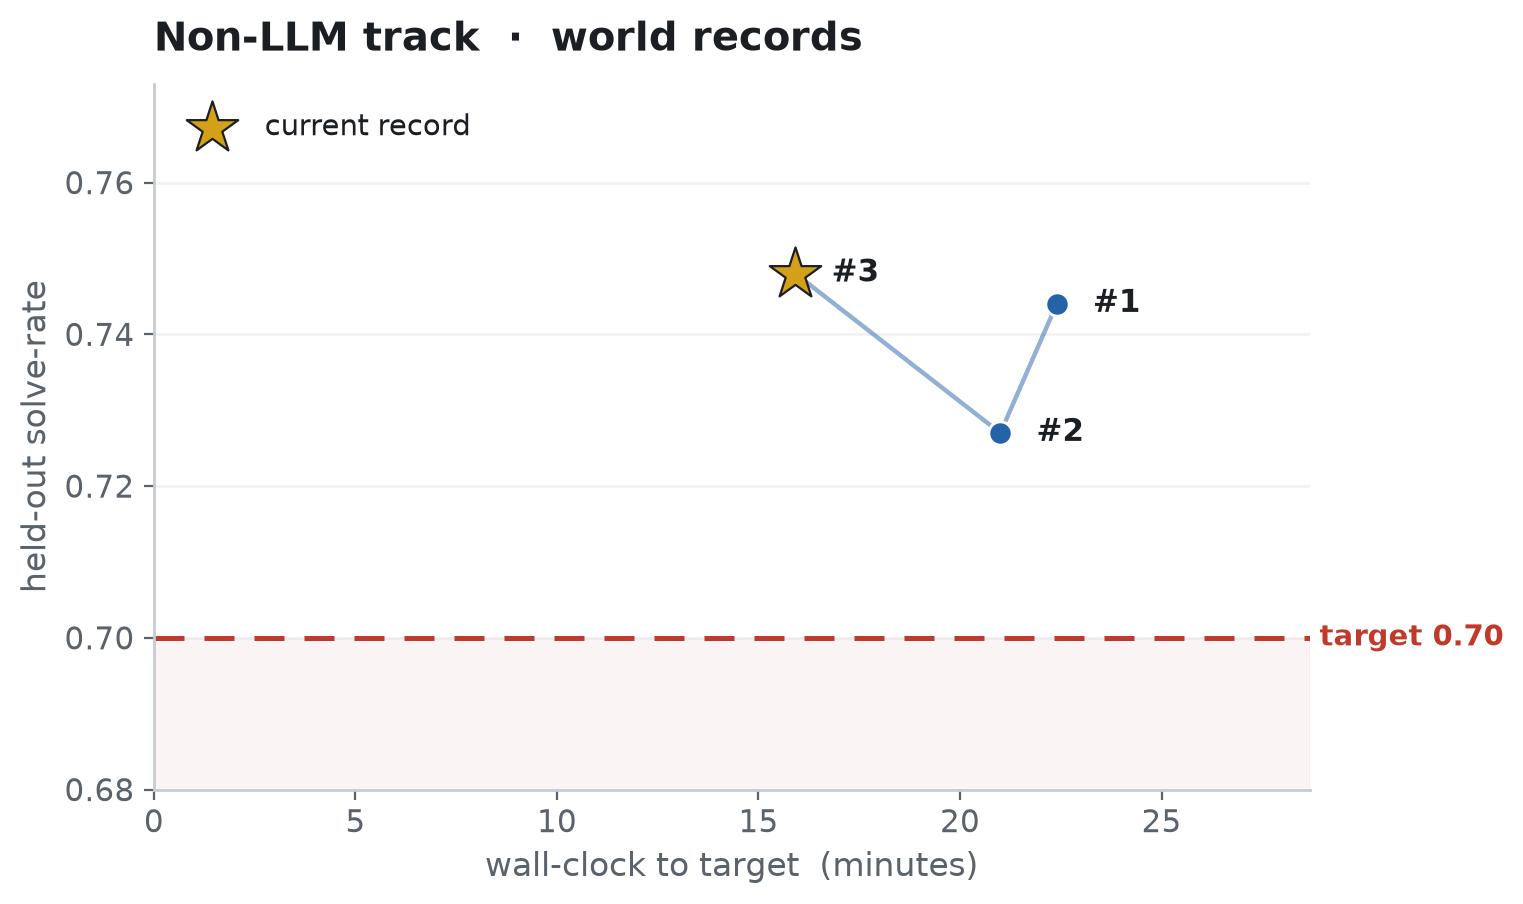
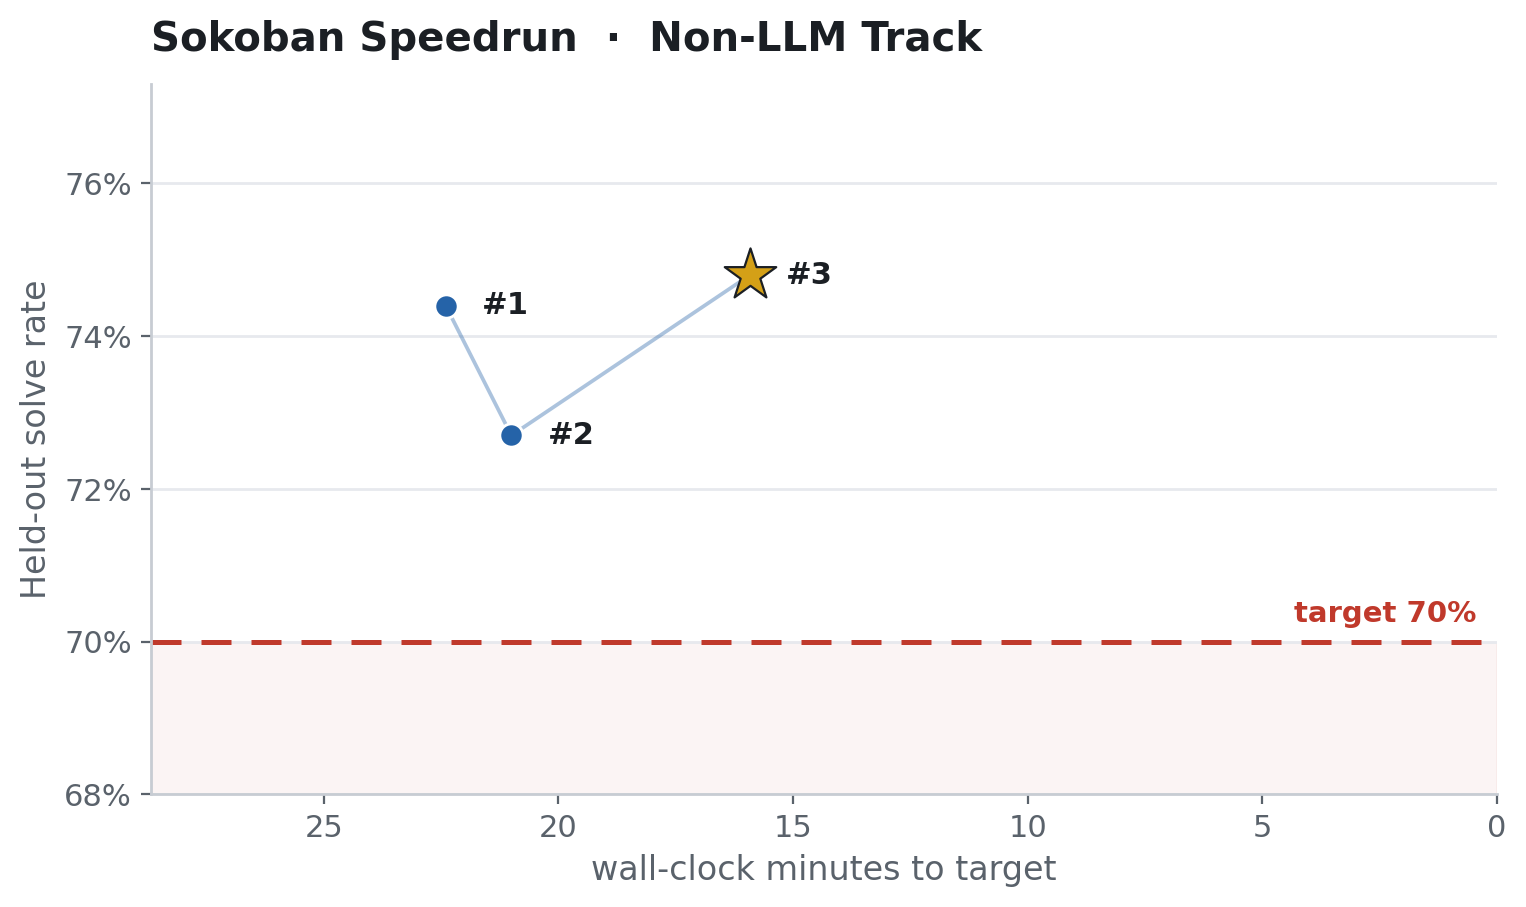
Polish leaderboard plots

diff --git a/make_record_report.py b/make_record_report.py
@@ -527,8 +527,8 @@ TRACKS = {
         "script": "speedrun.py",
         "show_flops": False,
         "lb_section": "LLM Track",          # README world-record table heading
-        "lb_title": "LLM track  ·  world records",
-        "lb_metric": "held-out pass@1",
+        "lb_title": "Sokoban Speedrun  ·  LLM Track",
+        "lb_metric": "Held-out pass@1",
         "lb_out": "assets/llm_records.png",
         "reproduce": [
             "# train on one 8xH100 node (recipe defaults live in speedrun.py RECIPE)",
@@ -549,8 +549,8 @@ TRACKS = {
         "script": "speedrun.py",
         "show_flops": False,   # open-architecture track: a FLOPs estimator can't stay faithful across archs
         "lb_section": "Non-LLM Track",      # README world-record table heading
-        "lb_title": "Non-LLM track  ·  world records",
-        "lb_metric": "held-out solve-rate",
+        "lb_title": "Sokoban Speedrun  ·  Non-LLM Track",
+        "lb_metric": "Held-out solve rate",
         "lb_out": "assets/non_llm_records.png",
         "reproduce": [
             "# train (recipe defaults live in speedrun.py RECIPE)",
@@ -567,8 +567,8 @@ TRACKS = {
 # --- Leaderboard figure (README world-record tables -> assets/*.png) ---------
 # One light, academic plot per track: each accepted record is a point at
 # (wall-clock time to target, held-out accuracy), with the fixed target dashed.
-# Faster is left, more accurate is up, so successive records march toward the
-# top-left — the same spirit as modded-nanoGPT's `figure_wr_vs_base`. The data is
+# Faster is right, more accurate is up, so successive records march toward the
+# top-right — the same spirit as modded-nanoGPT's `figure_wr_vs_base`. The data is
 # read straight from the README leaderboard tables, so the figure fills in as
 # faster records land. Regenerate after editing a row: `--leaderboard`.
 LB_INK = "#1b1f24"      # titles / record labels
@@ -635,24 +635,25 @@ def plot_leaderboard(cfg: dict) -> None:
     fig, ax = plt.subplots(figsize=(7.8, 4.7))
     ax.set_title(cfg["lb_title"])
     # target near the bottom (thin "below target" strip), records near the top
-    ax.set_xlim(0, x_max * 1.28)
+    ax.set_xlim(x_max * 1.28, 0)
     ax.set_ylim(max(0.0, target - 0.02), min(1.0, max(accs) + 0.025))
 
     ax.axhspan(ax.get_ylim()[0], target, color=LB_TARGET, alpha=0.05, zorder=0)
     ax.axhline(target, color=LB_TARGET, lw=1.8, ls=(0, (6, 4)), zorder=2)
-    ax.text(ax.get_xlim()[1], target, f" target {target:.2f}", va="center", ha="left",
-            color=LB_TARGET, fontsize=10.5, fontweight="bold", clip_on=False)
+    ax.annotate(f"target {target:.0%}", xy=(0.985, target), xycoords=ax.get_yaxis_transform(),
+                xytext=(0, 5), textcoords="offset points", va="bottom", ha="right",
+                color=LB_TARGET, fontsize=10.5, fontweight="bold")
 
     # connect successive records (only meaningful with >= 2); each clears the target
     order = sorted(range(len(recs)), key=lambda i: recs[i]["num"])
     if len(recs) > 1:
         ax.plot([recs[i]["minutes"] for i in order], [recs[i]["acc"] for i in order],
-                color=LB_ACCENT, lw=1.6, alpha=0.5, zorder=3)
+                color=LB_ACCENT, lw=1.35, alpha=0.38, zorder=3)
 
     for i, r in enumerate(recs):
         if i == best:
             ax.scatter([r["minutes"]], [r["acc"]], marker="*", s=380, color=LB_RECORD,
-                       edgecolors=LB_INK, linewidths=0.8, zorder=6, label="current record")
+                       edgecolors=LB_INK, linewidths=0.8, zorder=6)
         else:
             ax.scatter([r["minutes"]], [r["acc"]], s=70, color=LB_ACCENT,
                        edgecolors="white", linewidths=1.0, zorder=5)
@@ -660,10 +661,10 @@ def plot_leaderboard(cfg: dict) -> None:
                     textcoords="offset points", ha="left", va="center",
                     color=LB_INK, fontsize=11, fontweight="bold")
 
-    ax.set_xlabel("wall-clock to target  (minutes)")
+    ax.set_xlabel("wall-clock minutes to target")
     ax.set_ylabel(cfg["lb_metric"])
+    pct_axis(ax)
     ax.margins(x=0)
-    ax.legend(loc="upper left", borderaxespad=0.6)
     fig.tight_layout()
     out.parent.mkdir(exist_ok=True)
     fig.savefig(out)
